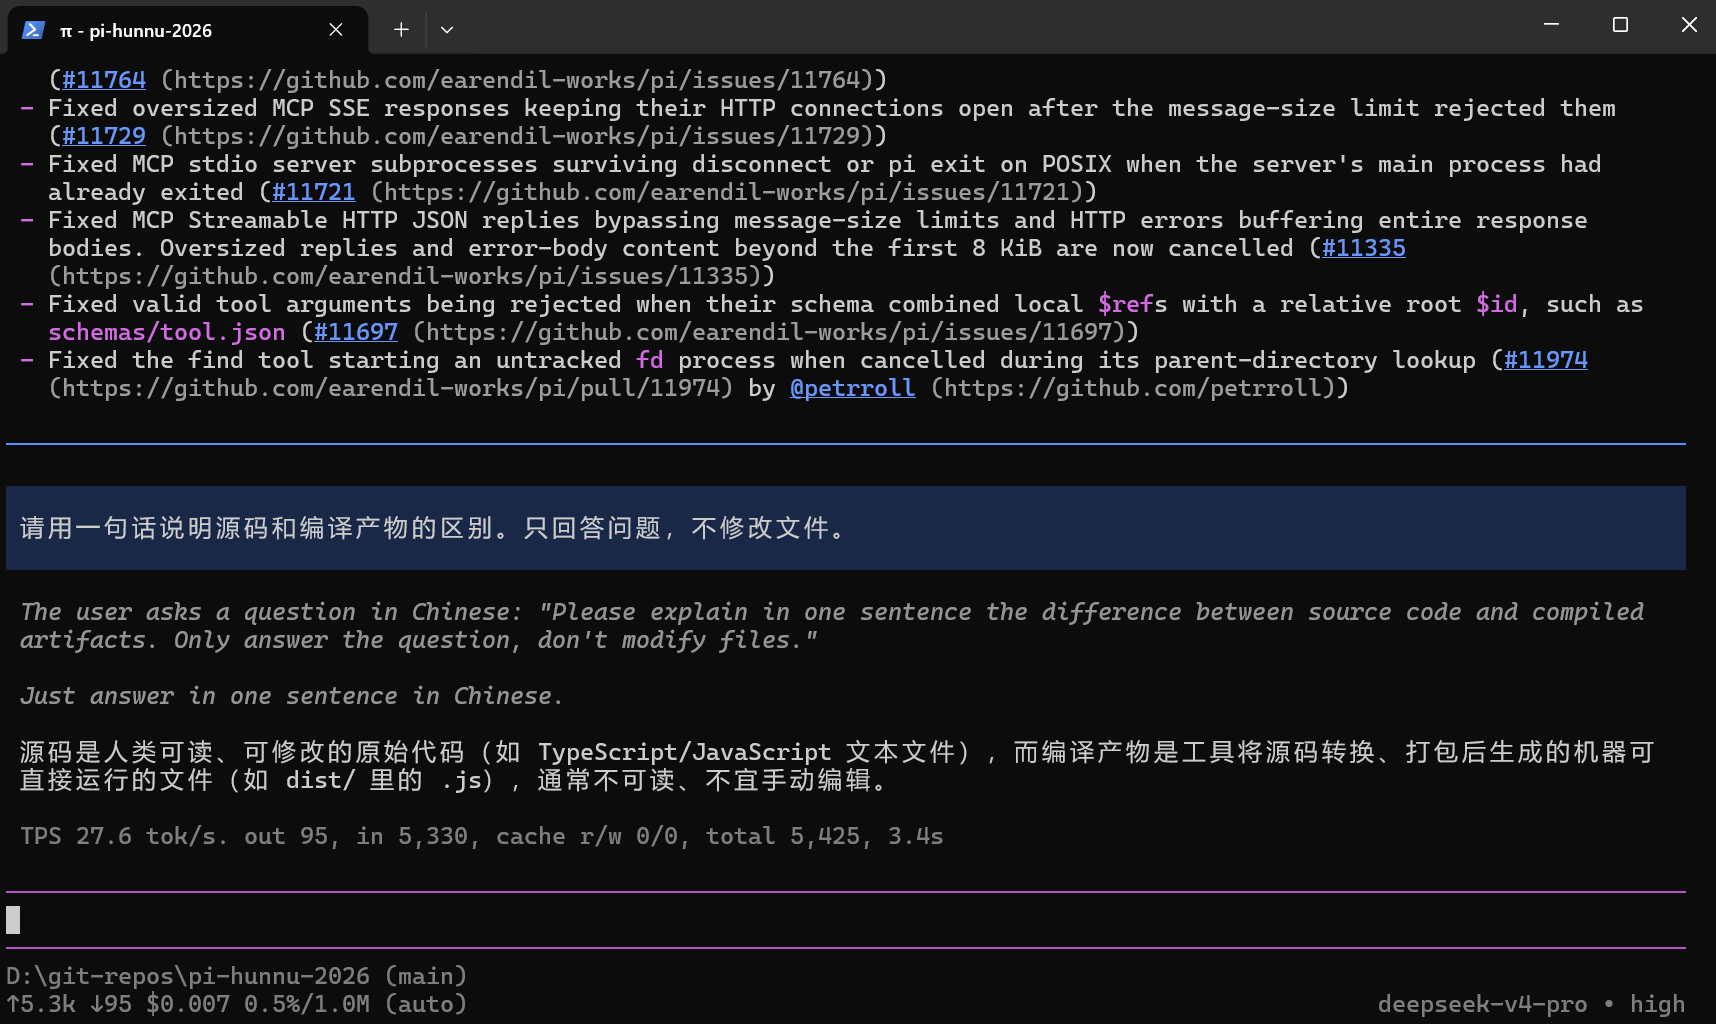
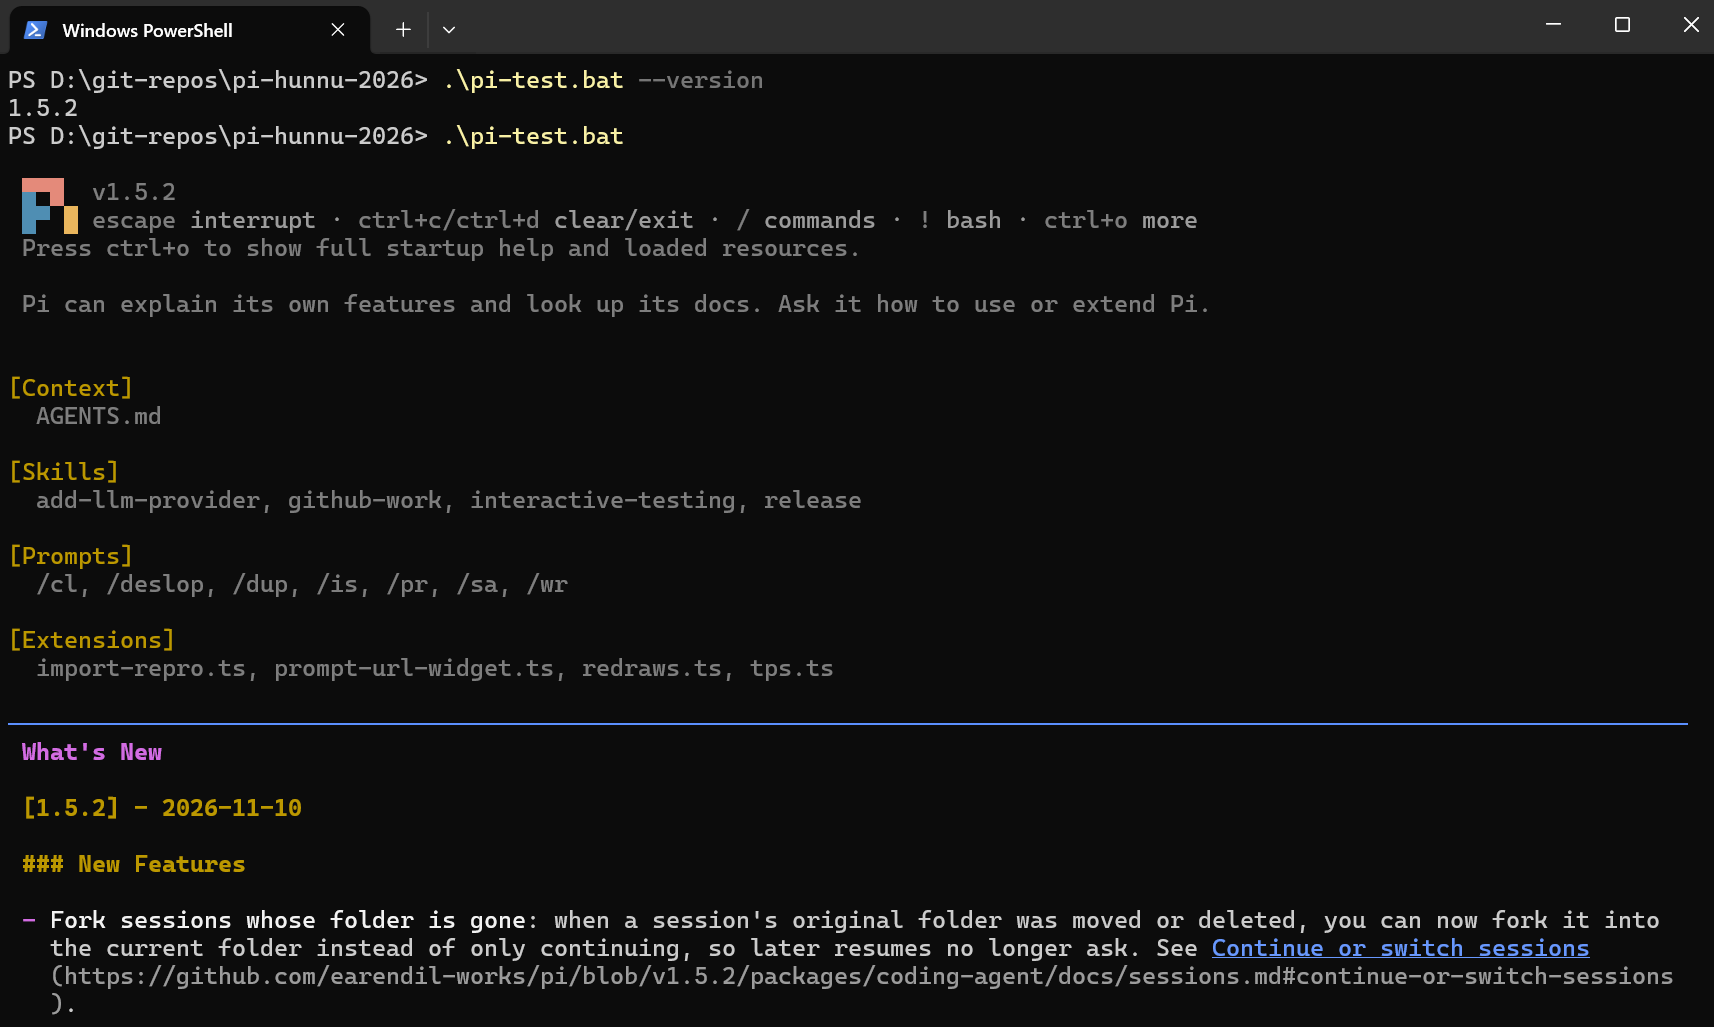
第二次修改：图片顺序+格式

Changed region(s): [[0.0, 0.0, 0.9895, 0.6875], [0.0, 0.7188, 0.9895, 1.0], [0.5875, 0.7188, 0.9586, 0.75]]

diff --git a/practice3/README.md b/practice3/README.md
@@ -40,7 +40,7 @@ git --version
 
 ---
 
-## 二、下载课程仓库源码（实践2已做，此处略）
+## 二、下载课程仓库源码
 
 执行过的命令：
 
@@ -218,13 +218,19 @@ node .\packages\coding-agent\dist\bundle\cli.js --version
 ## 七、遇到的困难与解决过程
 
 **问题1：npm install出现deprecated弃用警告**
+
 现象：执行`npm install --ignore-scripts`结束后，控制台输出多条`deprecated`弃用警告与配置提示警告，无`ERR!`类致命报错。
+
 原因：部分第三方依赖包已经停止维护，属于正常提示。
+
 解决：根据作业文档说明，弃用警告不会影响安装与编译，禁止执行`npm audit fix --force`，直接忽略警告，继续后续构建，`npm run build`可以正常完成。
 
 ---
 
 **问题2：运行pi‑test.bat出现目录信任弹窗**
+
 现象：执行`.\pi-test.bat`启动本地源码版本，弹出项目信任选择对话框，如果选择不信任，Pi会限制项目相关能力，无法完整使用交互会话。
+
 原因：Pi内置项目安全校验机制，需要确认是否信任当前源码目录。
+
 解决：选择`Trust(this session only)`，仅本次会话信任目录，关闭终端信任自动失效；确认后成功进入Pi交互界面，可正常进行对话。
